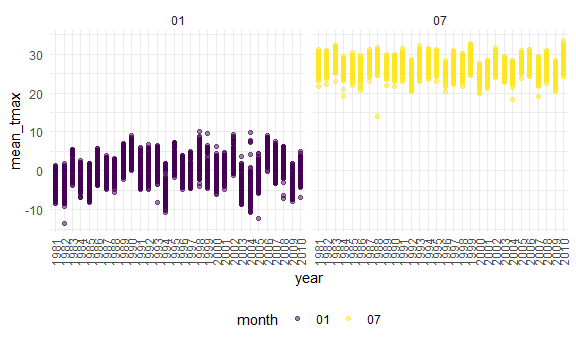
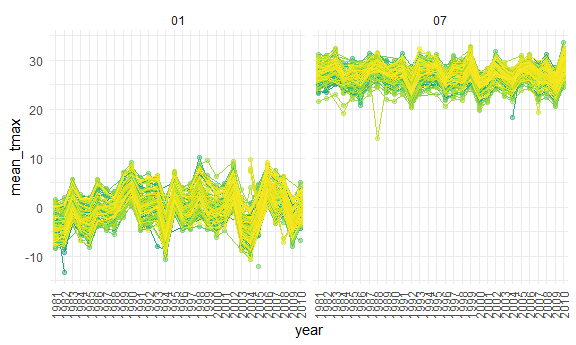
Updated Problem 2

Changed region(s): [[0.0, 0.2609, 1.0, 0.9855], [0.5312, 0.1159, 1.0, 0.3478], [0.0312, 0.1449, 0.0938, 0.2029]]

diff --git a/p8105_hw3_lw2883.md b/p8105_hw3_lw2883.md
@@ -234,20 +234,24 @@ clean_ny_noaa %>%
     mean_tmax = mean(tmax, na.rm = TRUE)
   ) %>% 
   filter(month %in% c("01", "07")) %>% 
-  ggplot(aes(x = year, y = mean_tmax, color = month)) +
+  ggplot(aes(x = year, y = mean_tmax, group = id, color = id)) +
   geom_point(alpha = .5) +
+  geom_path() +
   facet_grid(. ~ month) +
-  theme(axis.text.x = element_text(angle = 90, vjust = 0.5, hjust = 1))
+  theme(axis.text.x = element_text(angle = 90, vjust = 0.5, hjust = 1),
+        legend.position = "none")
 ```
 
 <img src="p8105_hw3_lw2883_files/figure-gfm/jan_jul_plot-1.png" width="90%" />
 
-The dots represent each station’s recorded mean maximum temperature
+The graph shows each station’s recorded mean maximum temperature
 throughout the years from 1981 to 2010. As we can see from the plots,
-the month of January has much lower mean temperatures compared to the
-July. Overall, the mean maximum temperatures seem to be very consistent
-over the 30 year period. Winter temperatures have a wider range of mean
-values than compared to the summer temperatures.
+the month of January has much lower mean temperatures (ranging from
+about -15 to 10 degrees C) compared to the July (ranging from about 20
+to 30 degrees C with some outliers). Overall, the mean maximum
+temperatures seem to be very consistent over the 30 year period. Winter
+temperatures have a wider range of mean values than compared to the
+summer temperatures.
 
 *Two-panel plot showing tmax vs tmin for full dataset and distribution
 of snowfall values greater than 0 and less than 100 by year*
